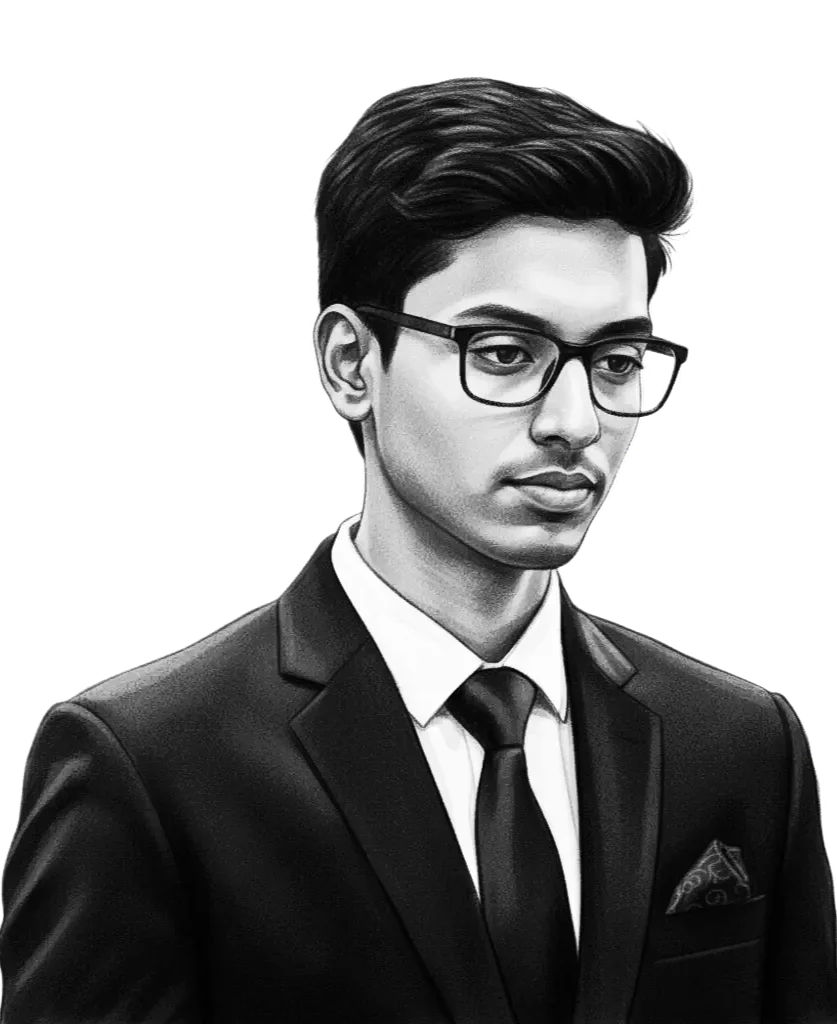
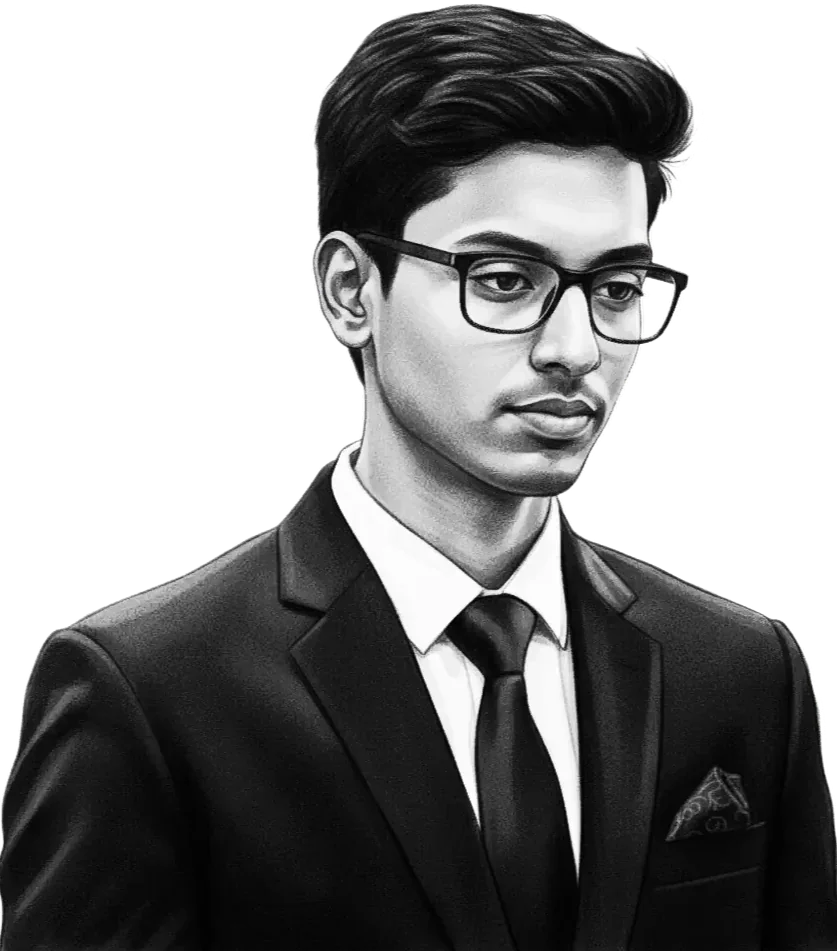
Crop the empty space out of the hero portraits
The portrait still looked far too low even after the section was anchored to the
top, because the gap was inside the image file, not in the layout: img-about5
was 595x1057 with 198px (19%) of transparent space above the head and 189px
below, so with the element at 124px and a 1.7x scale the visible head landed
at 392px. It was also why the bottom looked chopped - the space below the
person pushed the real content past the fold.

Both hero images are now cropped to their content (595x1057 -> 595x674,
837x1024 -> 837x951), with the width/height attributes and the aspect-ratio
rules in the critical CSS updated to match. The scale is untouched.

Measured, head below the navbar / portrait cut off at the bottom:
  before        392px / chopped mid-chest
  1920x1200      56px / 0px
  1920x1111      56px / 0px
  1920x1000      56px / 0px

Short screens would still have run past the fold at 1.7x, so the scale now
steps down by viewport height (1.4x under 1000px, 1.15x under 850px) - a
max-height cannot do this because transforms are applied after layout:
  1440x900       56px / 0px
  1366x768       56px / 0px
  1280x720       44px / 0px
  390x844        23px / 0px

Cropping also shaved a little weight: 145 KB -> 140 KB.

Changed region(s): [[0.0, 0.0, 1.0, 0.9148], [0.7766, 0.7928, 0.9008, 0.8843], [0.6834, 0.8843, 0.7145, 0.9148]]

diff --git a/index.html b/index.html
@@ -103,7 +103,7 @@
             margin-bottom: 0;
             height: auto;
             width: 100%;
-            aspect-ratio: 837 / 1024;
+            aspect-ratio: 837 / 951;
         }
         @media (min-width: 576px) { .profile-img { transform: scale(1.4); margin-left: 0; } }
         @media (min-width: 768px) { .profile-img { transform: scale(1.3); margin-left: 0; } }
@@ -114,7 +114,7 @@
                 margin-top: 1.75rem;
                 margin-bottom: 1.5rem;
                 height: 100%;
-                aspect-ratio: 595 / 1057;
+                aspect-ratio: 595 / 674;
             }
         }
         @media (min-width: 1200px) {
@@ -124,7 +124,7 @@
                 margin-top: 1.75rem;
                 margin-bottom: 1.5rem;
                 height: 100%;
-                aspect-ratio: 595 / 1057;
+                aspect-ratio: 595 / 674;
             }
         }
     </style>
@@ -199,7 +199,7 @@
                             <source srcset="images/img-about5.webp" media="(min-width: 992px)">
                             <!-- Default (mobile + tablet) -->
                             <!-- perf: LCP image dimensions + priority for faster LCP and no CLS -->
-                            <img title="Hey, Nice to meet you :)" class="profile-img img-fluid rounded" src="images/img-about.webp" width="837" height="1024" loading="eager" decoding="async" fetchpriority="high" alt="Alok Maurya">
+                            <img title="Hey, Nice to meet you :)" class="profile-img img-fluid rounded" src="images/img-about.webp" width="837" height="951" loading="eager" decoding="async" fetchpriority="high" alt="Alok Maurya">
                         </picture>
                     </div>
                     <div class="col-lg-7" style="scale: 0.9;">

diff --git a/css/css-style.css b/css/css-style.css
@@ -2569,3 +2569,12 @@ h5 .font-weight-medium{
     }.profile-img{
         transform-origin: center top;
     }}
+
+
+@media (min-width: 992px) and (max-height: 999px) {.profile-img{
+        transform: scale(1.4) !important;
+    }}
+
+@media (min-width: 992px) and (max-height: 849px) {.profile-img{
+        transform: scale(1.15) !important;
+    }}
